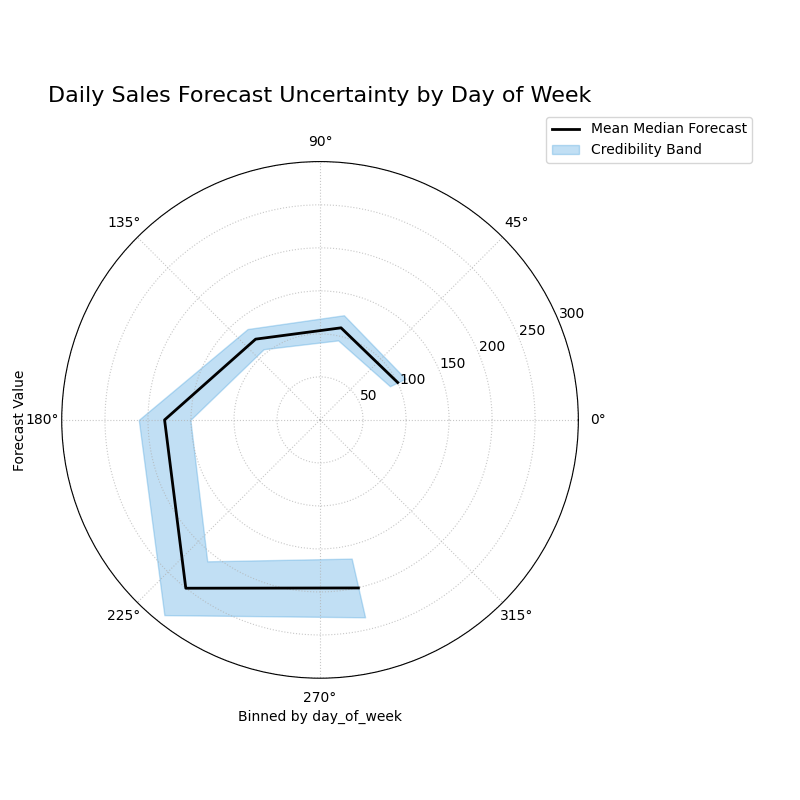
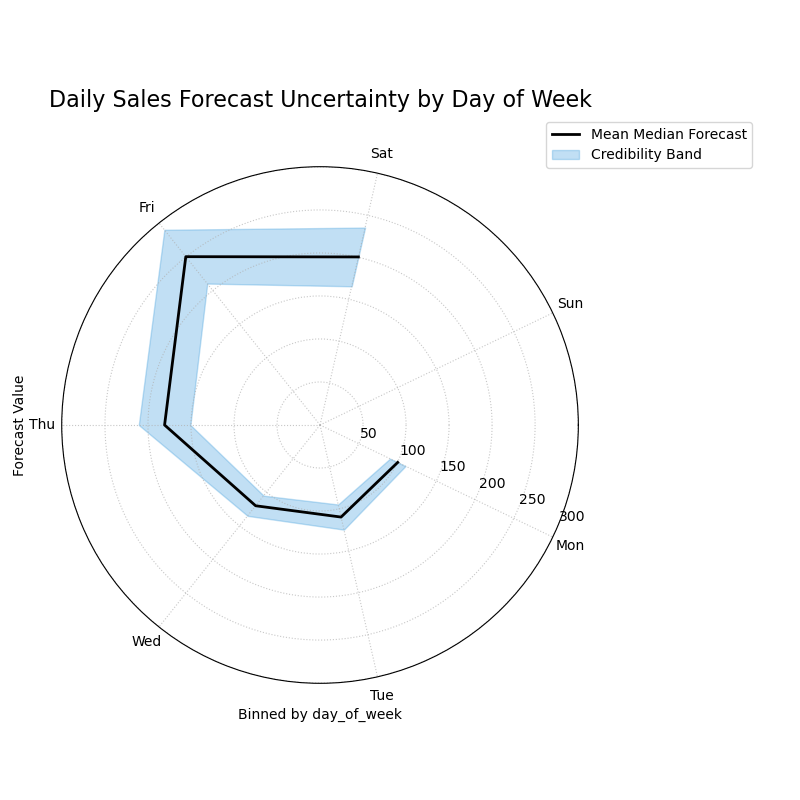
revise credibility_bands::Add two new parameters and expose the zero_at and clockwise

diff --git a/kdiagram/plot/probabilistic.py b/kdiagram/plot/probabilistic.py
@@ -8,7 +8,7 @@ Probabilistic Forecast Evaluation Plots
 from __future__ import annotations
 
 import warnings
-from typing import Any
+from typing import Any, Sequence, Mapping, Literal 
 
 import matplotlib.pyplot as plt
 import numpy as np
@@ -770,6 +770,10 @@ def plot_credibility_bands(
     mask_radius: bool = False,
     savefig: str | None = None,
     dpi: int = 300,
+    theta_ticks: Sequence[float] | None = None,
+    theta_ticklabels: Sequence[str] | Mapping[int, str] | None = None,
+    zero_at: Literal["N","E","S","W"] = "N",
+    clockwise: bool = True,
     ax: Axes | None = None,
     **fill_kws,
 ) -> Axes | None:
@@ -796,6 +800,8 @@ def plot_credibility_bands(
         ax,
         acov=acov,
         figsize=figsize,
+        zero_at=zero_at,
+        clockwise=clockwise,
     )
 
     # --- map theta to [0, span]
@@ -820,16 +826,24 @@ def plot_credibility_bands(
             data["theta_map"] = 0.0
 
     # --- binning along theta and mean stats per bin
+    # theta_edges = np.linspace(0.0, float(span), int(theta_bins) + 1)
+    # theta_labels = (theta_edges[:-1] + theta_edges[1:]) / 2.0
+
+    # data["theta_bin"] = pd.cut(
+    #     data["theta_map"],
+    #     bins=theta_edges,
+    #     labels=theta_labels,
+    #     include_lowest=True,
+    # )
     theta_edges = np.linspace(0.0, float(span), int(theta_bins) + 1)
-    theta_labels = (theta_edges[:-1] + theta_edges[1:]) / 2.0
-
+    theta_centers = (theta_edges[:-1] + theta_edges[1:]) / 2.0
     data["theta_bin"] = pd.cut(
-        data["theta_map"],
-        bins=theta_edges,
-        labels=theta_labels,
-        include_lowest=True,
+        data["theta_map"], 
+        bins=theta_edges, 
+        labels=theta_centers,
+        include_lowest=True
     )
-
+    
     stats = (
         data.groupby("theta_bin", observed=False)
         .agg(
@@ -869,6 +883,30 @@ def plot_credibility_bands(
         **fill_kws,
     )
 
+    tick_pos = None
+    tick_lbls = None
+
+    if theta_ticks is not None:
+        tick_pos = np.asarray(theta_ticks, dtype=float)
+
+    if theta_ticklabels is not None:
+        if isinstance(theta_ticklabels, dict):
+            # map by bin index (0..theta_bins-1)
+            tick_pos = theta_centers if tick_pos is None else tick_pos
+            # build labels from mapping; fallback to str(index)
+            idx = np.arange(len(theta_centers))
+            tick_lbls = [theta_ticklabels.get(i, str(i)) for i in idx]
+        else:
+            tick_lbls = list(theta_ticklabels)
+
+    if tick_pos is None:
+        tick_pos = theta_centers
+
+    ax.set_xticks(tick_pos)
+    
+    if tick_lbls is not None:
+        ax.set_xticklabels(tick_lbls)
+        
     # --- formatting
     ax.set_title(title, fontsize=16, y=1.1)
     ax.set_xlabel(f"Binned by {theta_col}")

diff --git a/docs/source/user_guide/probabilistic.rst b/docs/source/user_guide/probabilistic.rst
@@ -761,13 +761,16 @@ designed to diagnose this exact behavior.
       ... })
       >>>
       >>> # --- 2. Generate the plot ---
-      >>> ax = kd.plot_credibility_bands(
-      ...     df,
-      ...     q_cols=('q10_sales', 'q50_sales', 'q90_sales'),
-      ...     theta_col='day_of_week',
-      ...     theta_period=7,
-      ...     theta_bins=7,
-      ...     title='Daily Sales Forecast Uncertainty by Day of Week'
+      >>> ax = plot_credibility_bands(
+      ...    df,
+      ...    q_cols=('q10_sales','q50_sales','q90_sales'),
+      ...    theta_col='day_of_week',
+      ...    theta_period=7,
+      ...    theta_bins=7,
+      ...    theta_ticklabels=['Mon','Tue','Wed','Thu','Fri','Sat','Sun'],
+      ...    zero_at='E',        # put Monday at 0° on the right (optional)
+      ...    clockwise=True,     # or False, depending on preference
+      ...    title='Daily Sales Forecast Uncertainty by Day of Week',
       ... )
 
    .. figure:: ../images/userguide_plot_credibility_bands.png
